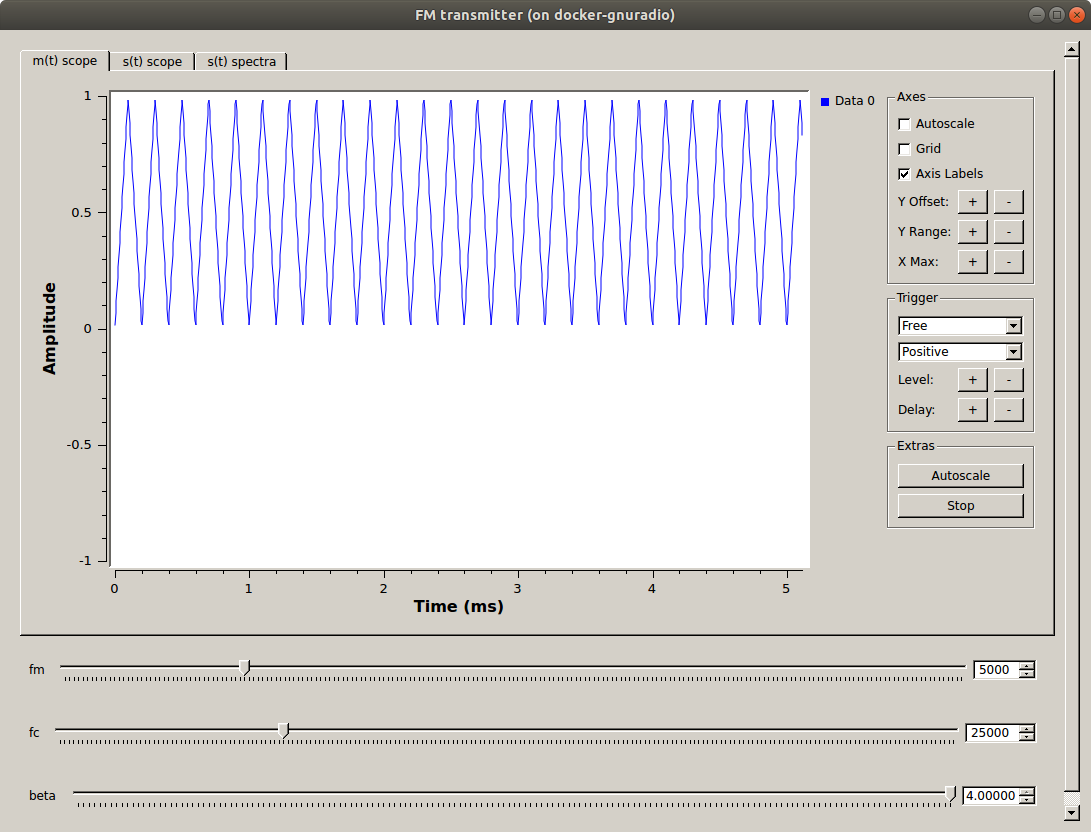
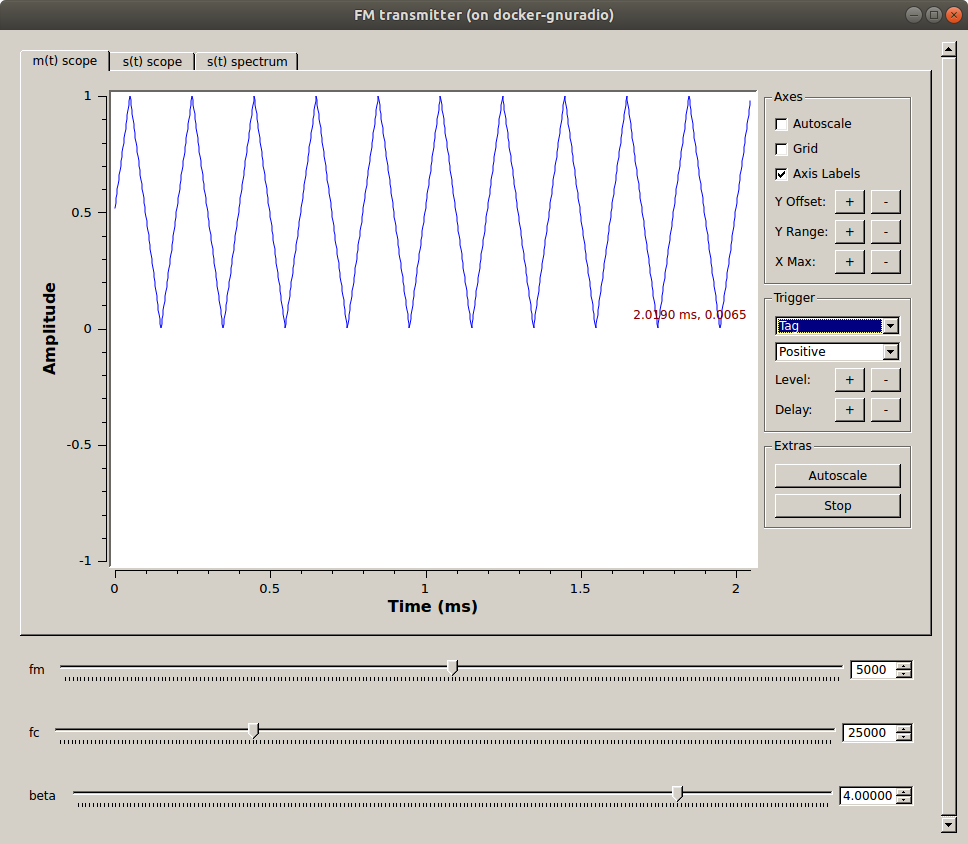
Updated figures for FM transmitter

Changed region(s): [[0.031, 0.0, 1.0, 1.0], [0.3719, 0.0, 0.6508, 0.0312]]

diff --git a/_lab3/FM-transmitter-simulation.md b/_lab3/FM-transmitter-simulation.md
@@ -71,7 +71,7 @@ How do you transmit a *real* signal (we'll call it $$ \phi $$) as *complex* ($$ 
 
 - Add a *QT GUI Constellation Sink* and notice that it can only accept complex numbers!
 
-- Your flowgraph should look like the following figure. The output of the float line is a signal, $$ \phi $$, and we need the input of the IQ plane to be $$ e^{j\phi}.
+- Your flowgraph should look like the following figure. The output of the float line is a signal, $$ \phi $$, and we need the input of the IQ plane to be $$ e^{j\phi} $$.
 
     ![fmtx_phase-mod-start-grc.png](./figures/fmtx_phase-mod-start-grc.png)<br>
     __*Flowgraph of a real signal unable to be connected to a complex sink*__
@@ -82,7 +82,7 @@ How do you transmit a *real* signal (we'll call it $$ \phi $$) as *complex* ($$ 
   - Set the *Sensitivity* to be 3.14 ($$ \pi $$)
 
 - The input of the *Phase Mod* block is some GUI controlled number between 0 and 2 (we'll call it $$ x $$). The *Phase Mod* block output is $$ e^{jx\pi} $$.
-  > Notice the $$ j $$ and the way in which the sensitivity parameter is used.
+  > Notice the $$ j $$ in the above equation, and also notice the way in which the sensitivity parameter is used to multiply with $$ x $$.
 
 - The flowgraph should now look like the following figure.
 
@@ -109,12 +109,11 @@ You'll start by transmitting a sinusoidal message. The equations for this are sh
   - Add a *QT GUI Range* for each of $$ f_m $$, $$ f_c $$ and $$ \beta $$.
   - For the message frequency, range from 0-10 kHz with a default value of 5 kHz.
   - For the carrier frequency, range from 0-100 kHz with a default value of 25 kHz.
-  - For the beta value, fange from 0-4 with a default value of 4, and a step size of 0.025.
+  - For the beta value, range from 0-5 with a default value of 4, and a step size of 0.025.
 
 - Begin by using a *Signal Source* block and a *Multiply Const* block to create the $$ \beta sin( 2\pi f_m t) $$ term.
-  - In the signal source, change the *Output Type* to *Float*.
+  - In the signal source, change the *Output Type* to *Float*, and the *Waveform* to *Sine*.
   - Use the variables from the *QT GUI Range* widgets for $$ \beta $$ and $$ f_m $$.
-  - The flowgraph should now look like the following figure.
 
 - This flowgraph will not be used to transmit to any hardware, so a *Throttle* block is needed. Add a *Throttle* after the *Multiply Const* block.
 
@@ -155,11 +154,14 @@ You'll start by transmitting a sinusoidal message. The equations for this are sh
   ![fmtx_s-of-t-sine-fft.png](./figures/fmtx_s-of-t-sine-fft.png)<br>
   __*$$ s(t) $$ with default values in frequency domain*__
 
-  - Experiment with adjusting the three sliders.
+- Experiment with adjusting the three sliders.
 
-  - Reset $$ f_c $$ to 25 kHz and $$ f_m $$ to 5 kHz.
+- Reset $$ f_c $$ to 25 kHz and $$ f_m $$ to 5 kHz.
 
   - Measure the amplitude of the carrier wave and of the first sideband.
+
+    ![fmtx_s-of-t-sine-fft-zoomed.png](./figures/fmtx_s-of-t-sine-fft-zoomed.png)<br>
+    __*Positive half of spectrum only to more clearly measure Bessel peaks*__
 
 ---
 #### Deliverable Question 1
@@ -167,6 +169,8 @@ You'll start by transmitting a sinusoidal message. The equations for this are sh
 Show that the Bessel peaks have the correct values relative to each other. In other words, confirm that for the chosen vlaue of $$ \beta $$, the carrier wave and first sideband have the correct values relative to eachother as described by the following equation.
 
 $$ \Delta P = 20 log\frac{J_1(\beta)}{J_0(\beta)} $$
+
+You will want to reference a [table of Bessel functions](https://www.statisticshowto.datasciencecentral.com/wp-content/uploads/2017/01/bessel-tables.pdf) or use a Bessel calculator (built into Matlab/Python/most mathematical programming languages).
 
 ---
 
@@ -176,13 +180,13 @@ $$ \Delta P = 20 log\frac{J_1(\beta)}{J_0(\beta)} $$
 
 Up until now the transmitted message has been a sine wave of frequency $$ f_m $$. You will now simulate transmitting a Frequency Shift Keying (FSK) signal by transmitting a square waveform (which is an FSK pattern of `101010...`).
 
-The integral of a square waveform is a triangular waveform with the same frequency as the square waveform. So for frequency modulation with a square wave, we can skip doing the intagral and simply use a triangular waveform.
+The integral of a square waveform is a triangular waveform with the same frequency as the square waveform. So for frequency modulation with a square wave, we can skip doing the integral and simply use a triangular waveform.
 
 - Change the *Signal Source* block to output a triangular waveform of frequency $$ f_m $$.
 
 - With the *File Sink* block disabled, execute the flowgraph and observe the various plots. Adjust the sliders so that $$ f_m $$ is 2 kHz see how it impacts the transmitted signal.
 
-- The following figures show $$ m(t)$$  and $$ s(t) $$ with a message frequency of 5 kHz.
+- The following figures show $$ m(t)$$  and $$ s(t) $$ with a message frequency of 2 kHz.
 
   ![fmtx_m-of-t-square-scope.png](./figures/fmtx_m-of-t-square-scope.png)<br>
   __*$$ m(t) $$ with default values in time domain*__
